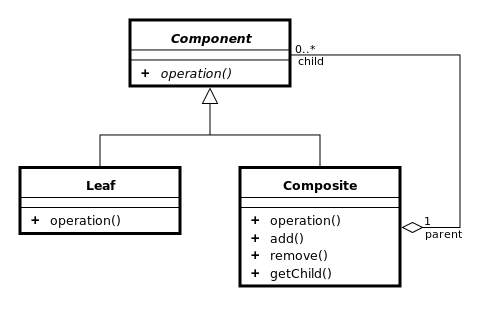
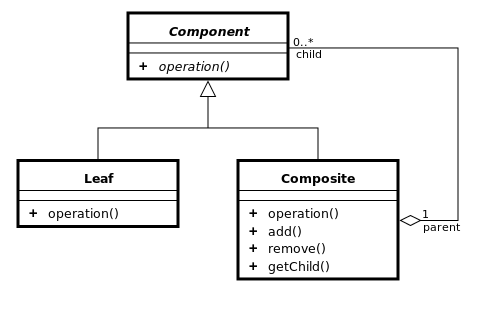
feat: add facade pattern

Changed region(s): [[0.0293, 0.0291, 0.9665, 0.932]]

diff --git a/index.html b/index.html
@@ -136,8 +136,9 @@
 						<p>마린 1부대를 한꺼번에 이동할 때</p>
 					</section>
 					<section style="text-align: center">
-						<img src="images/composite-pattern.png" width="840" height="260">
-						<p>개별 객체와 복합 객체간의 공통인터페이스를 추출하여 사용</p>
+						<img src="images/composite-pattern.png">
+						<p>개별 객체와 복합 객체간의</p>
+						<p>공통인터페이스를 추출하여 사용</p>
 					</section>
 					<section style="text-align: center">
 						<h2>구현 고려 사항</h2>
@@ -165,6 +166,27 @@
 					<section style="text-align: center">
 						<h2>장점</h2>
 						<p>프로그램 개발시 처음 부터 모든 기능을 구현할 필요 없다.</p>
+					</section>
+				</section>
+				<section>
+					<section style="text-align: center">
+						<h2>5. Facade Pattern</h2>
+					</section>
+					<section style="text-align: center">
+						<p>복잡한 서브시스템의 동작을 숨기고 단순한 인터페이스를 제공하는 패턴</p>
+					</section>
+					<section style="text-align: center">
+						<h2>피자를 만들다</h2>
+						<p>반죽</p>
+						<p>토핑</p>
+						<p>굽기</p>
+					</section>
+					<section style="text-align: center">
+						<img src="images/facade-pattern.png">
+						<p>특별한 구조는 없다.</p>
+					</section>
+					<section style="text-align: center">
+						<h2>이걸 왜 굳이 패턴이라고 하는지 잘 모르겠다...</h2>
 					</section>
 				</section>
 				<section style="text-align: left;">
